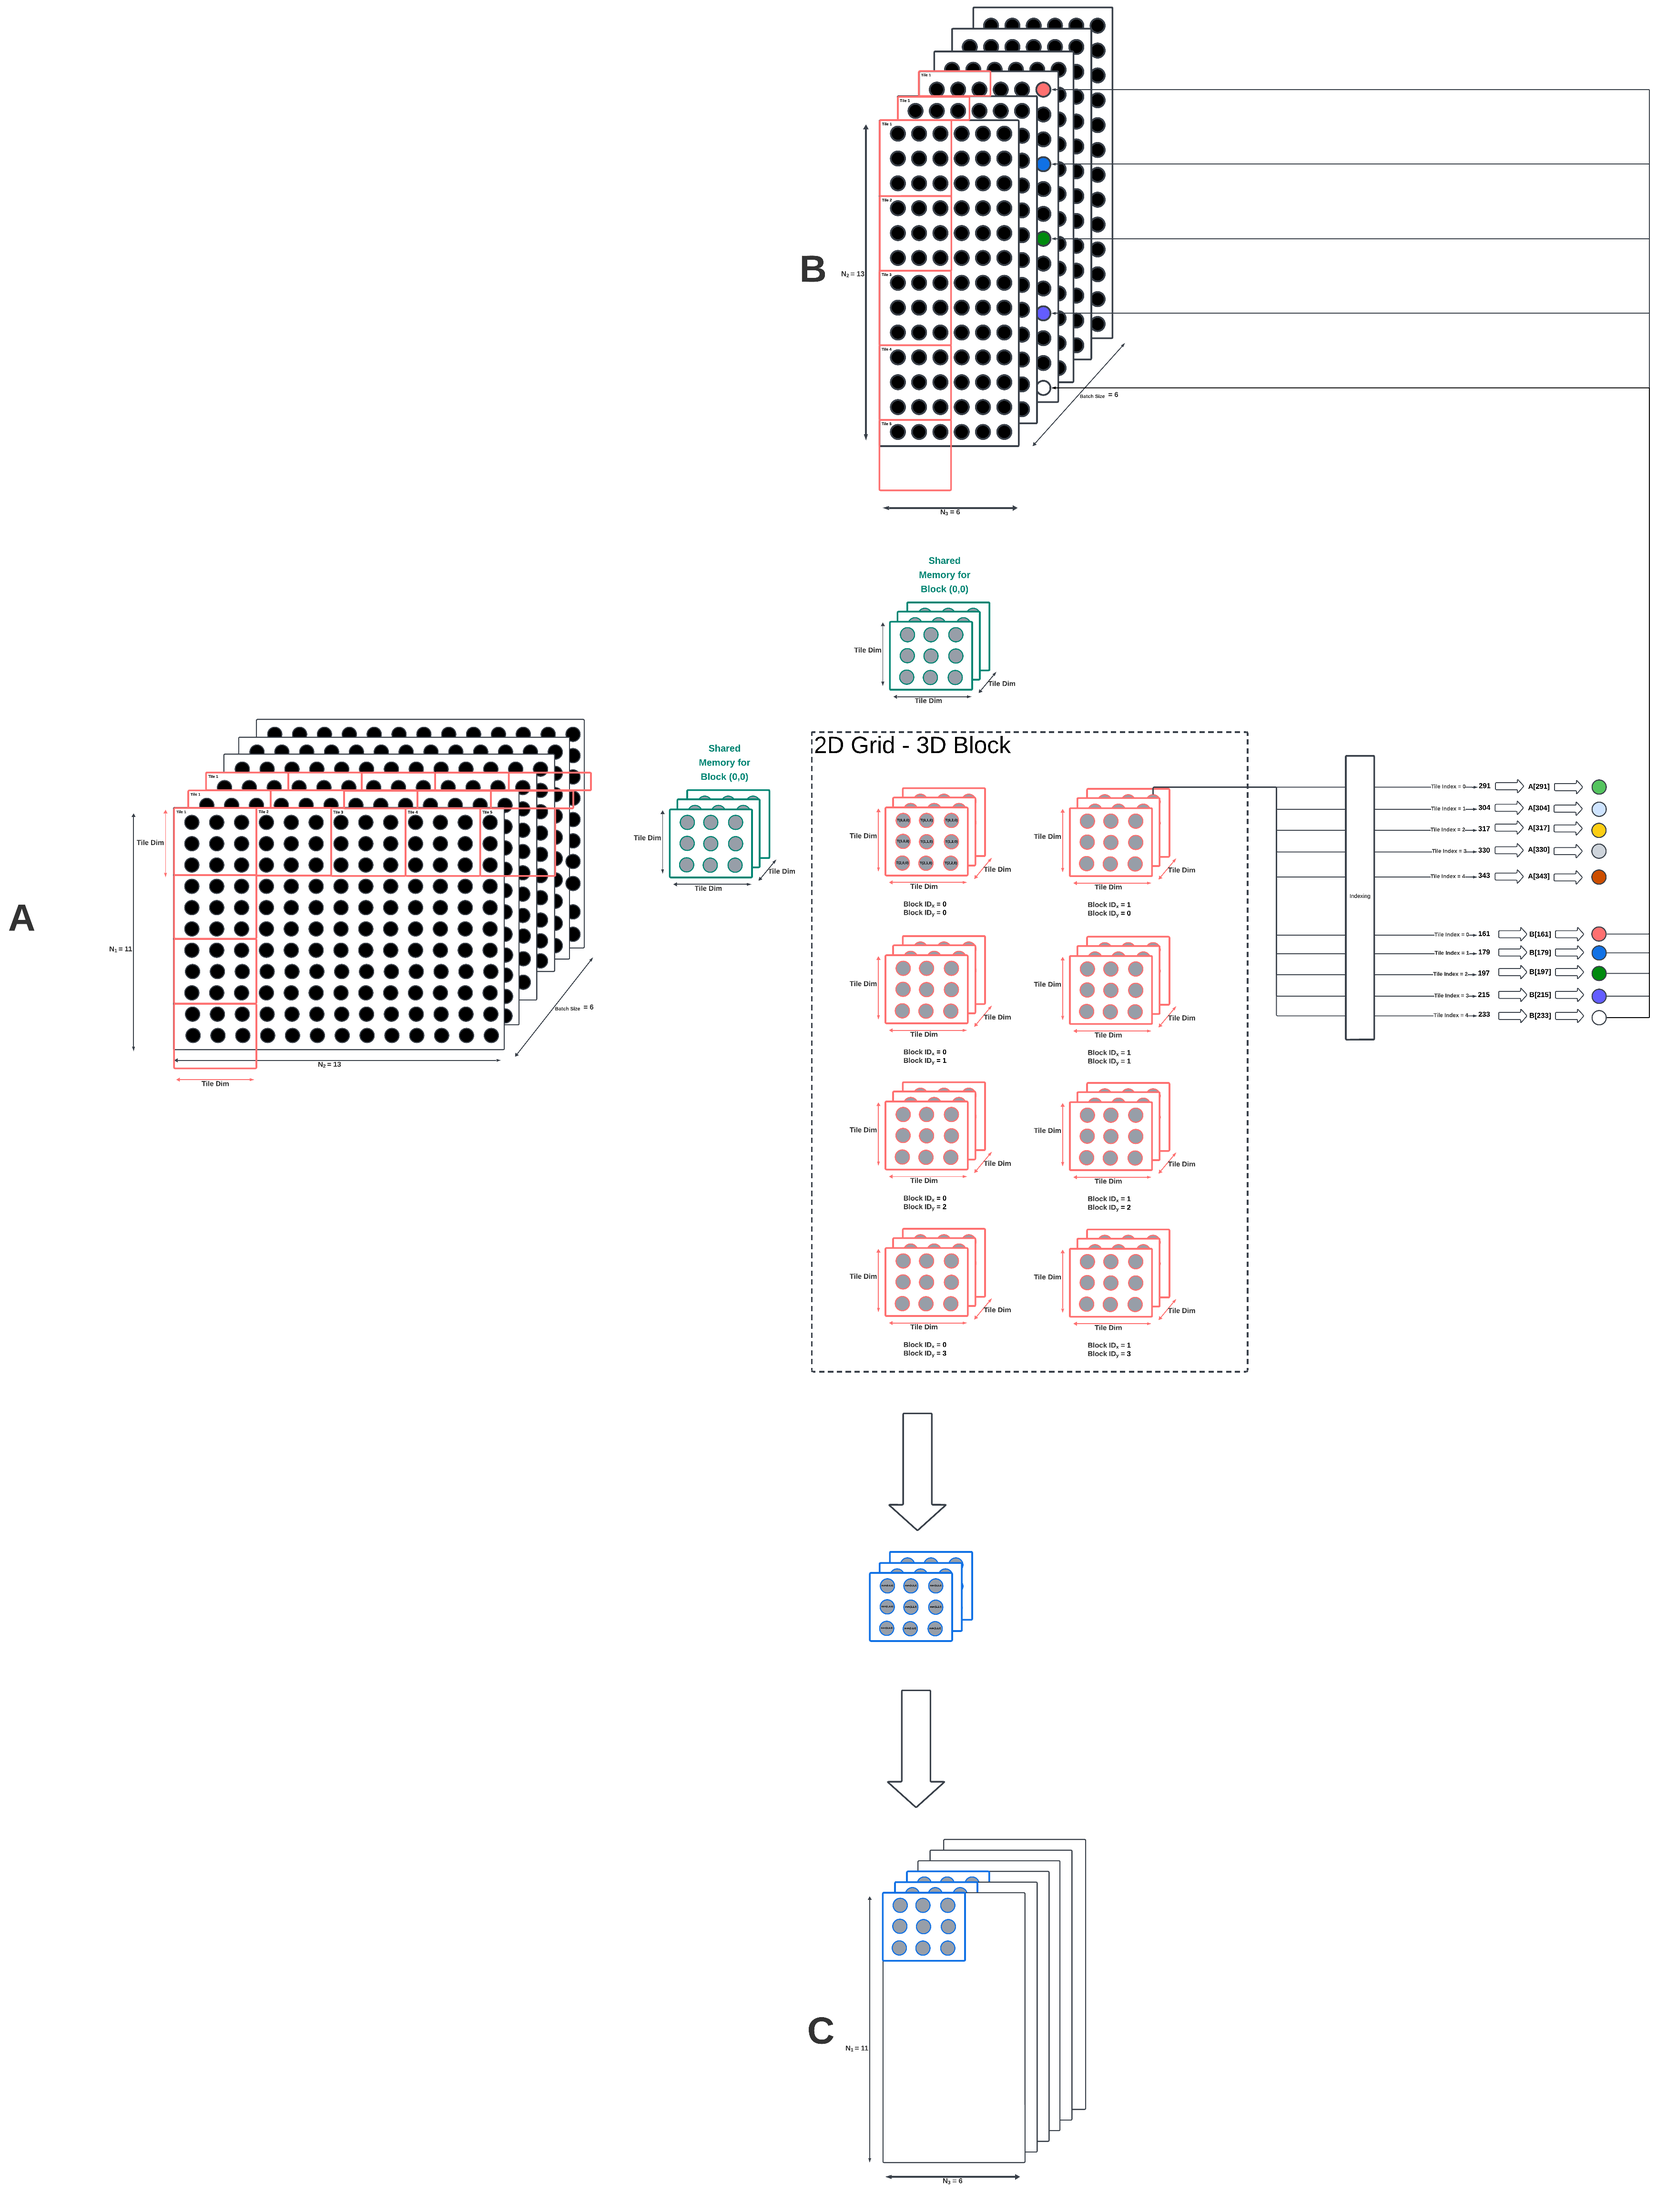
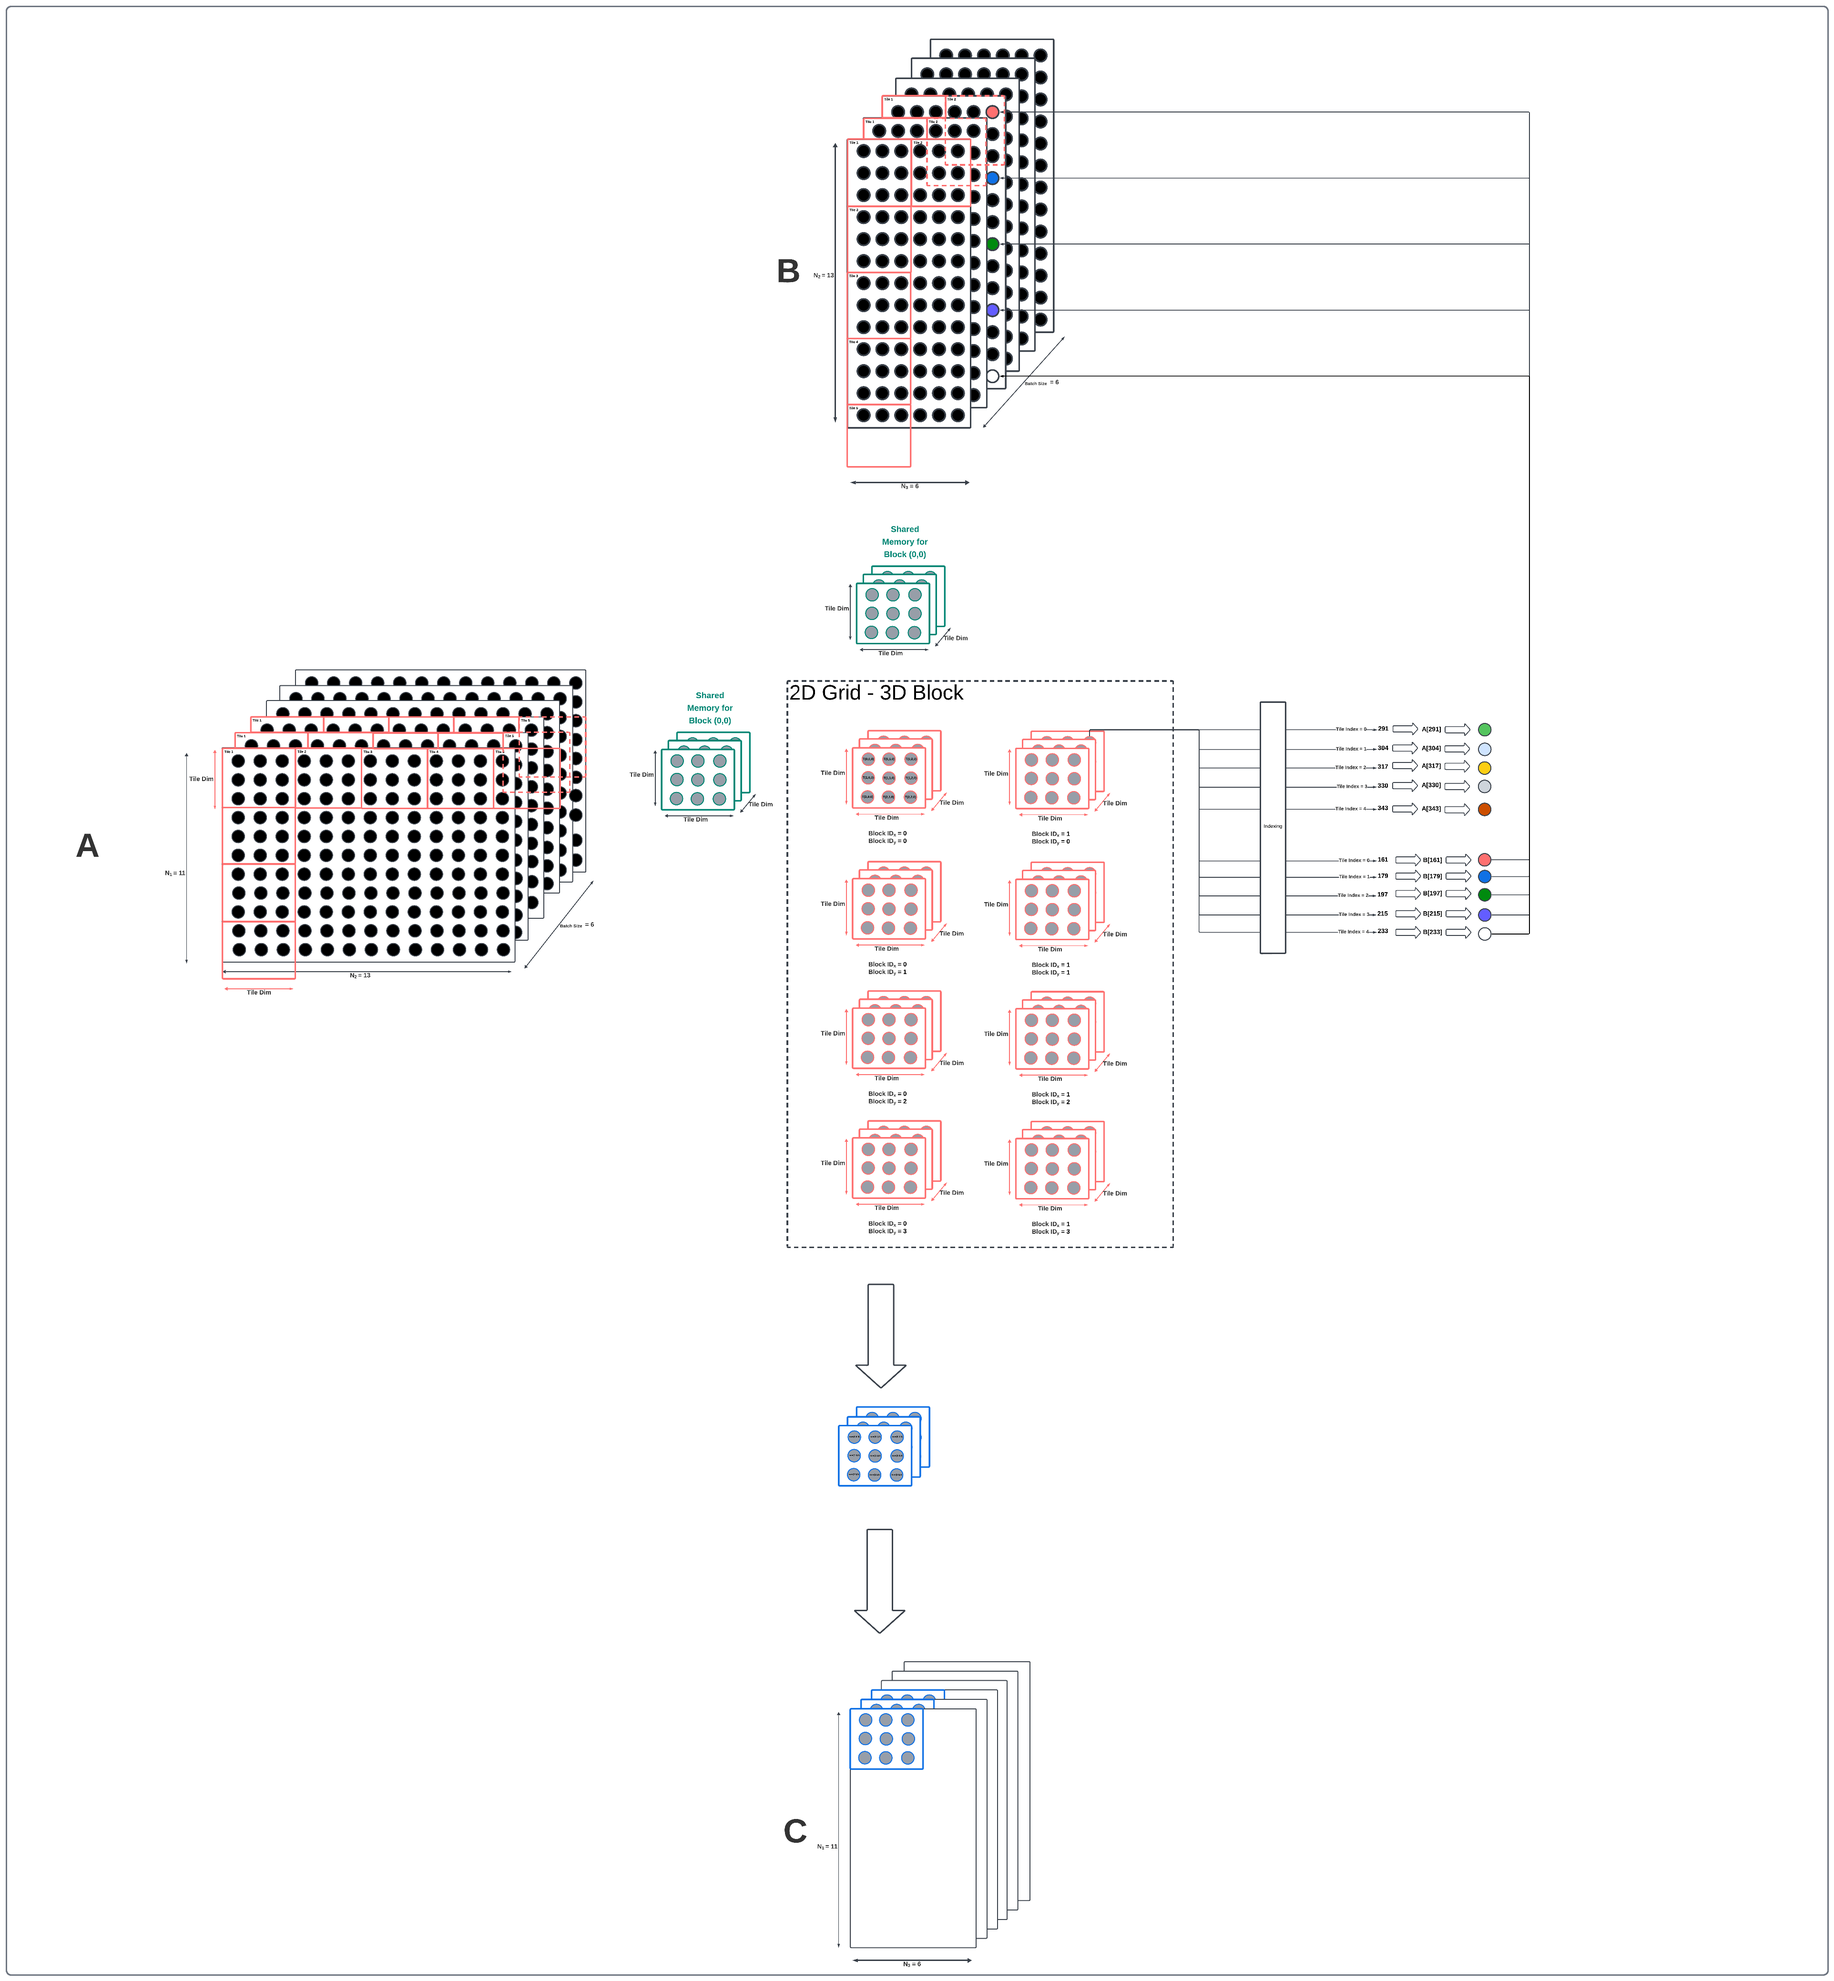
README is updated

diff --git a/README.md b/README.md
@@ -4,7 +4,11 @@ In this project, attention mechanism is implemented in CUDA by utilizing shared 
 
 ### Matrix Multiplication 
 
-![Matrix Multiplication](figures/matmul-tiled.png)
+<div align="center">
+
+<img src="figures/matmul-tiled.png" alt="Matrix Multiplication" width="700" style="image-rendering: auto;"/>
+
+</div>
 
 ### Softmax 
 
